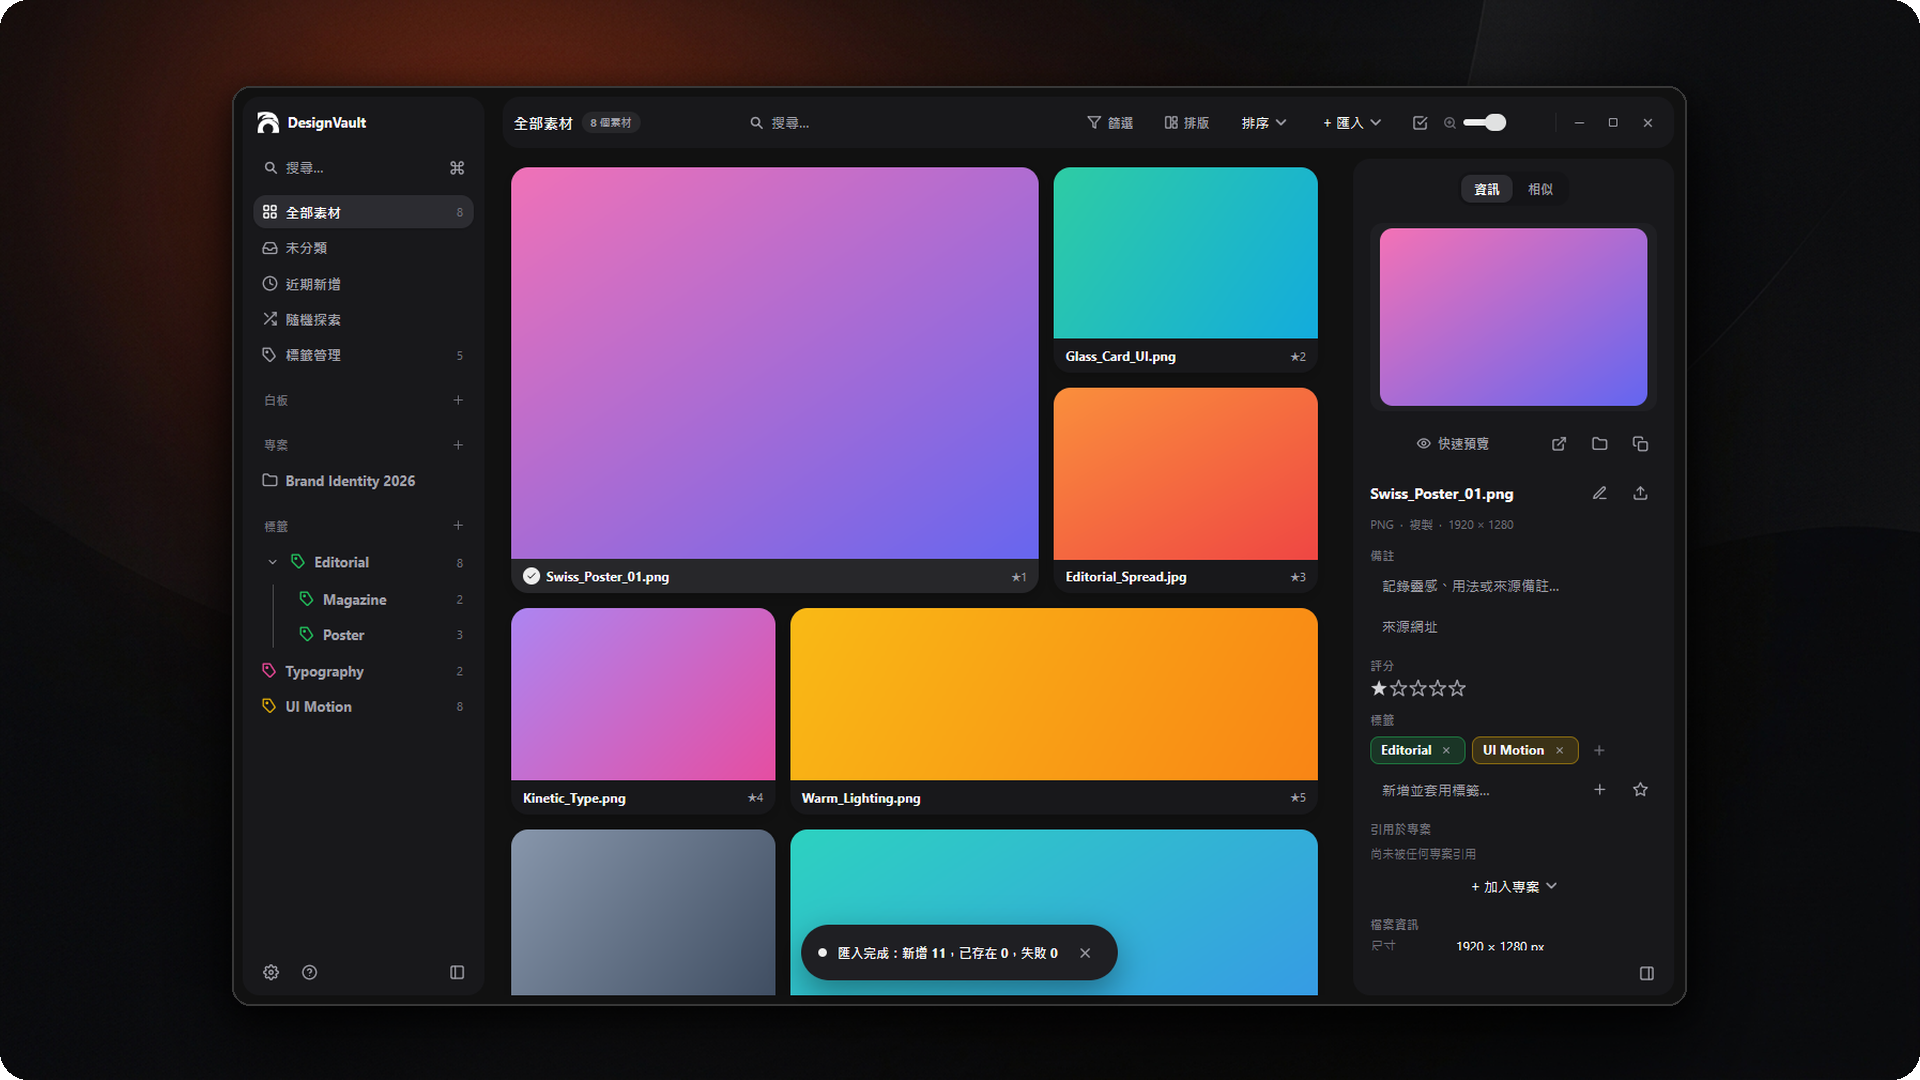
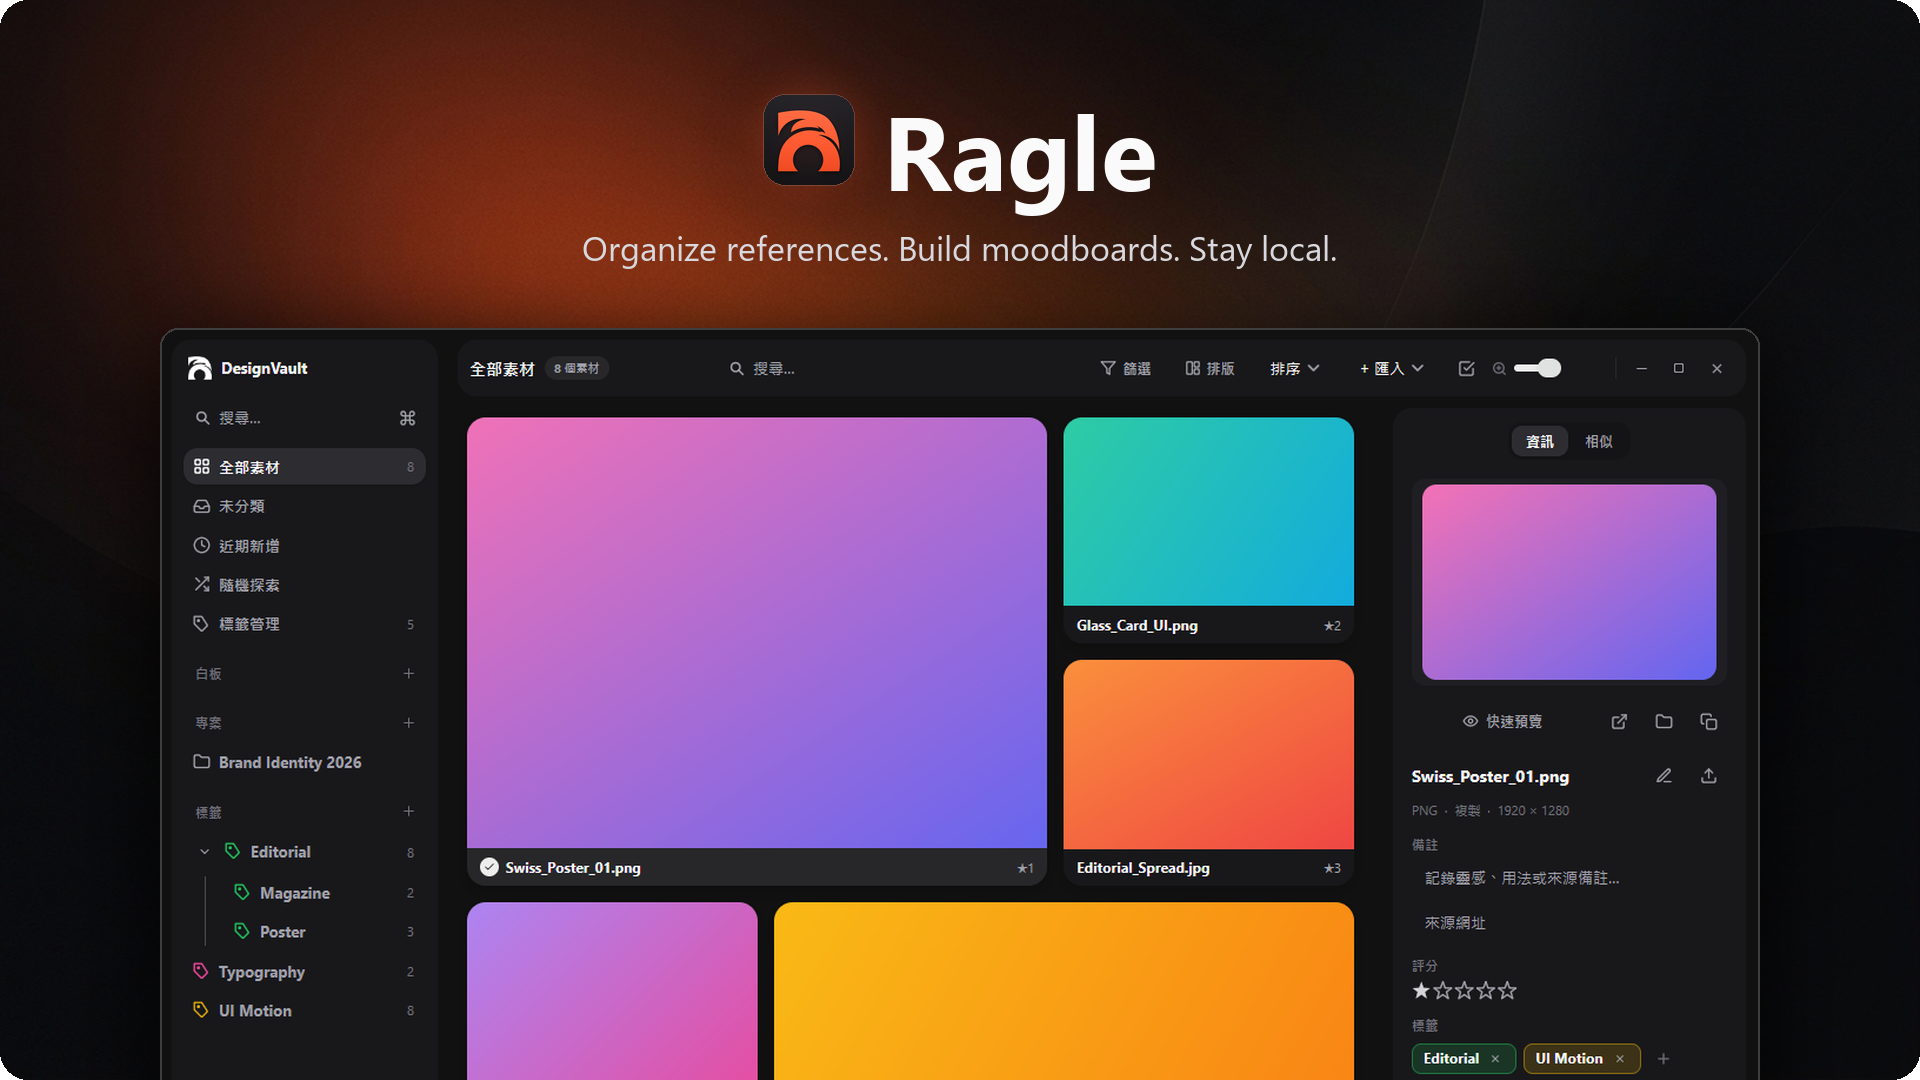
Update README hero cover with bold Ragle title, tagline, and bottom-peeking UI

diff --git a/README.md b/README.md
@@ -1,11 +1,5 @@
 <p align="center">
-  <img src="Logo.png" alt="Ragle Logo" width="112" height="112" />
-</p>
-
-<h1 align="center">Ragle</h1>
-
-<p align="center">
-  <strong>Open-source, local-first digital asset manager, batch file workflow tool, and infinite moodboard for creators.</strong>
+  <img src="docs/screenshots/cover.png" alt="Ragle — Organize references. Build moodboards. Stay local." width="100%" />
 </p>
 
 <p align="center">
@@ -19,10 +13,6 @@
   <img src="https://shieldcn.dev/badge/Go-1.24+-00ADD8.svg" alt="Go 1.24+" />
   <img src="https://shieldcn.dev/badge/UI-MyGo_Native-FF5C33.svg" alt="MyGo Native UI" />
   <img src="https://shieldcn.dev/badge/Platform-macOS_%7C_Windows_%7C_Linux-3F3F46.svg" alt="Platforms" />
-</p>
-
-<p align="center">
-  <img src="docs/screenshots/cover.png" alt="Ragle — Local-first digital asset manager and infinite moodboard" width="100%" />
 </p>
 
 ## Workspace Previews

diff --git a/README.zh-TW.md b/README.zh-TW.md
@@ -1,11 +1,5 @@
 <p align="center">
-  <img src="Logo.png" alt="Ragle Logo" width="112" height="112" />
-</p>
-
-<h1 align="center">Ragle</h1>
-
-<p align="center">
-  <strong>開源、本地優先的創作者數位素材管理、批次檔案工作流與無限靈感白板工具。</strong>
+  <img src="docs/screenshots/cover.png" alt="Ragle — Organize references. Build moodboards. Stay local." width="100%" />
 </p>
 
 <p align="center">
@@ -19,10 +13,6 @@
   <img src="https://shieldcn.dev/badge/Go-1.24+-00ADD8.svg" alt="Go 1.24+" />
   <img src="https://shieldcn.dev/badge/UI-MyGo_Native-FF5C33.svg" alt="MyGo Native UI" />
   <img src="https://shieldcn.dev/badge/Platform-macOS_%7C_Windows_%7C_Linux-3F3F46.svg" alt="Platforms" />
-</p>
-
-<p align="center">
-  <img src="docs/screenshots/cover.png" alt="Ragle — 開源本地優先數位素材管理與無限靈感白板" width="100%" />
 </p>
 
 ## 介面預覽
